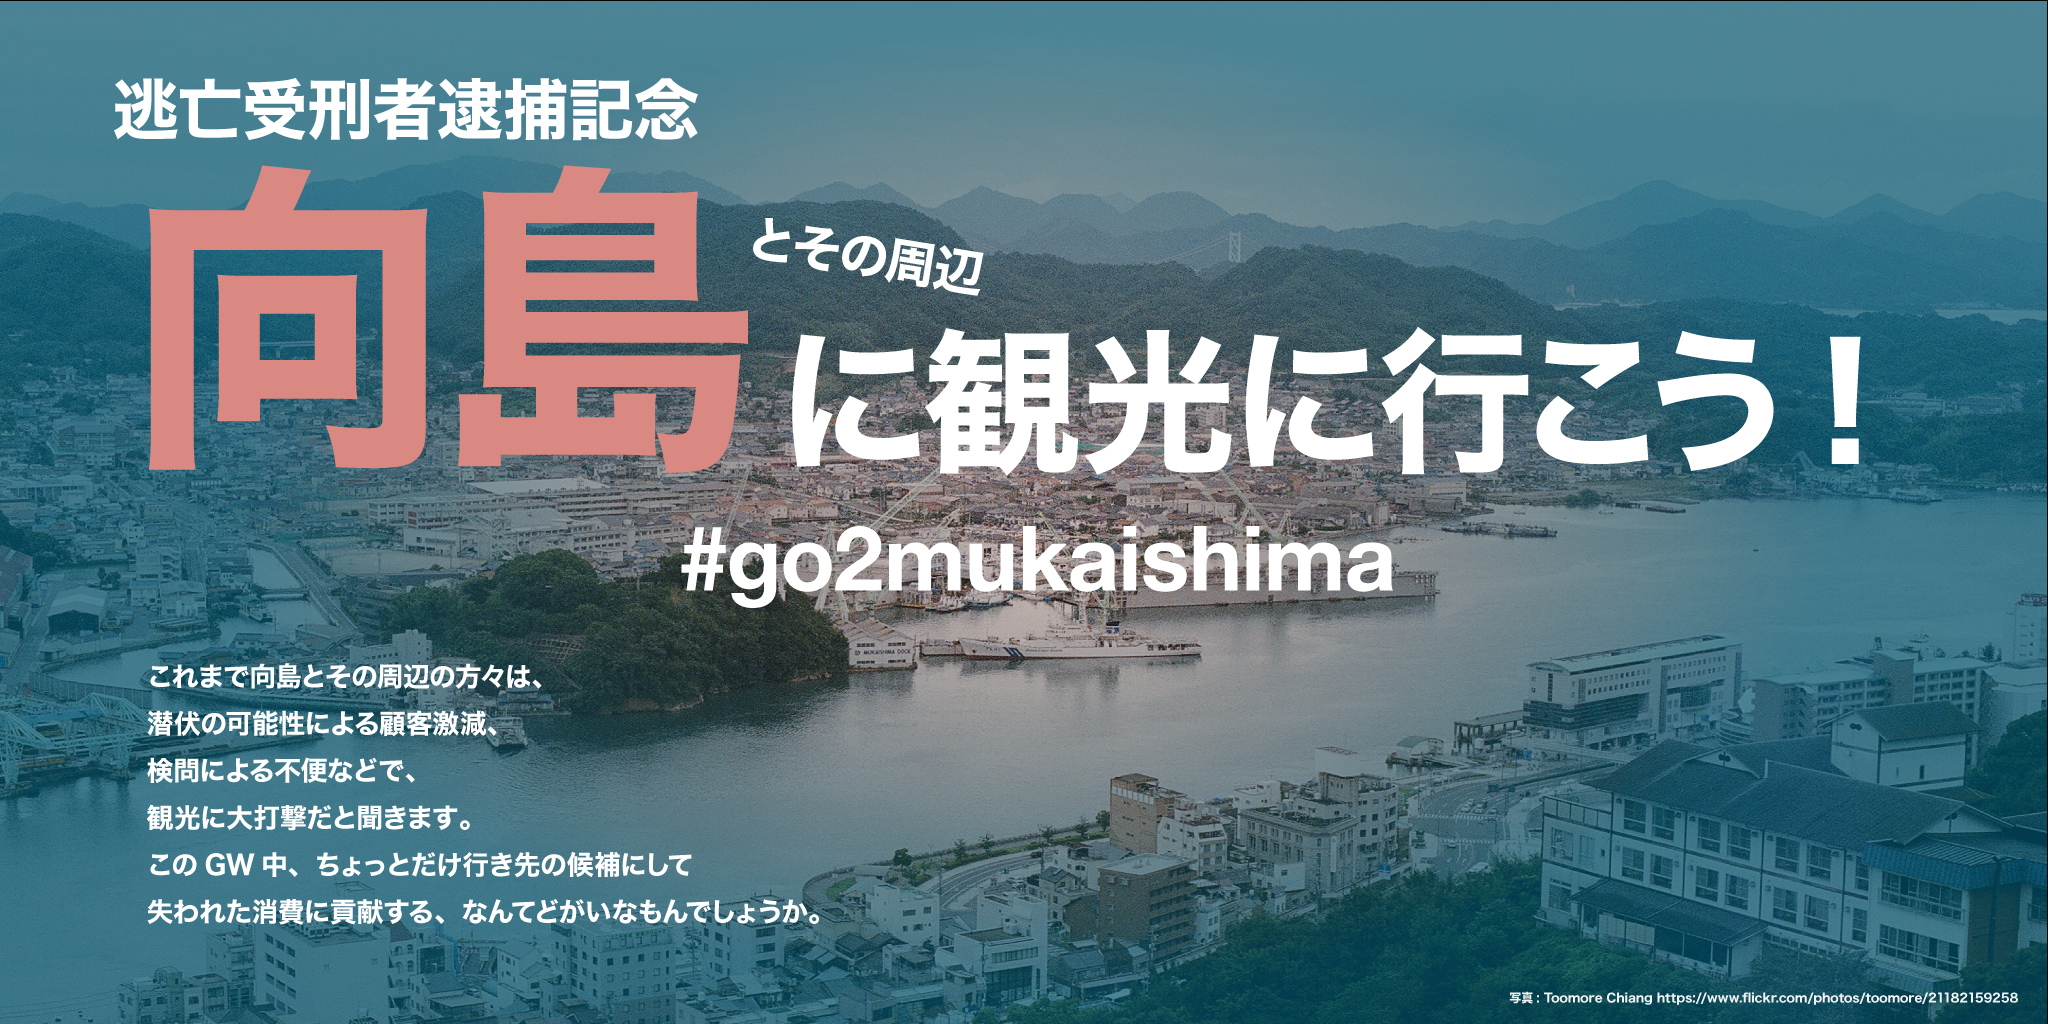
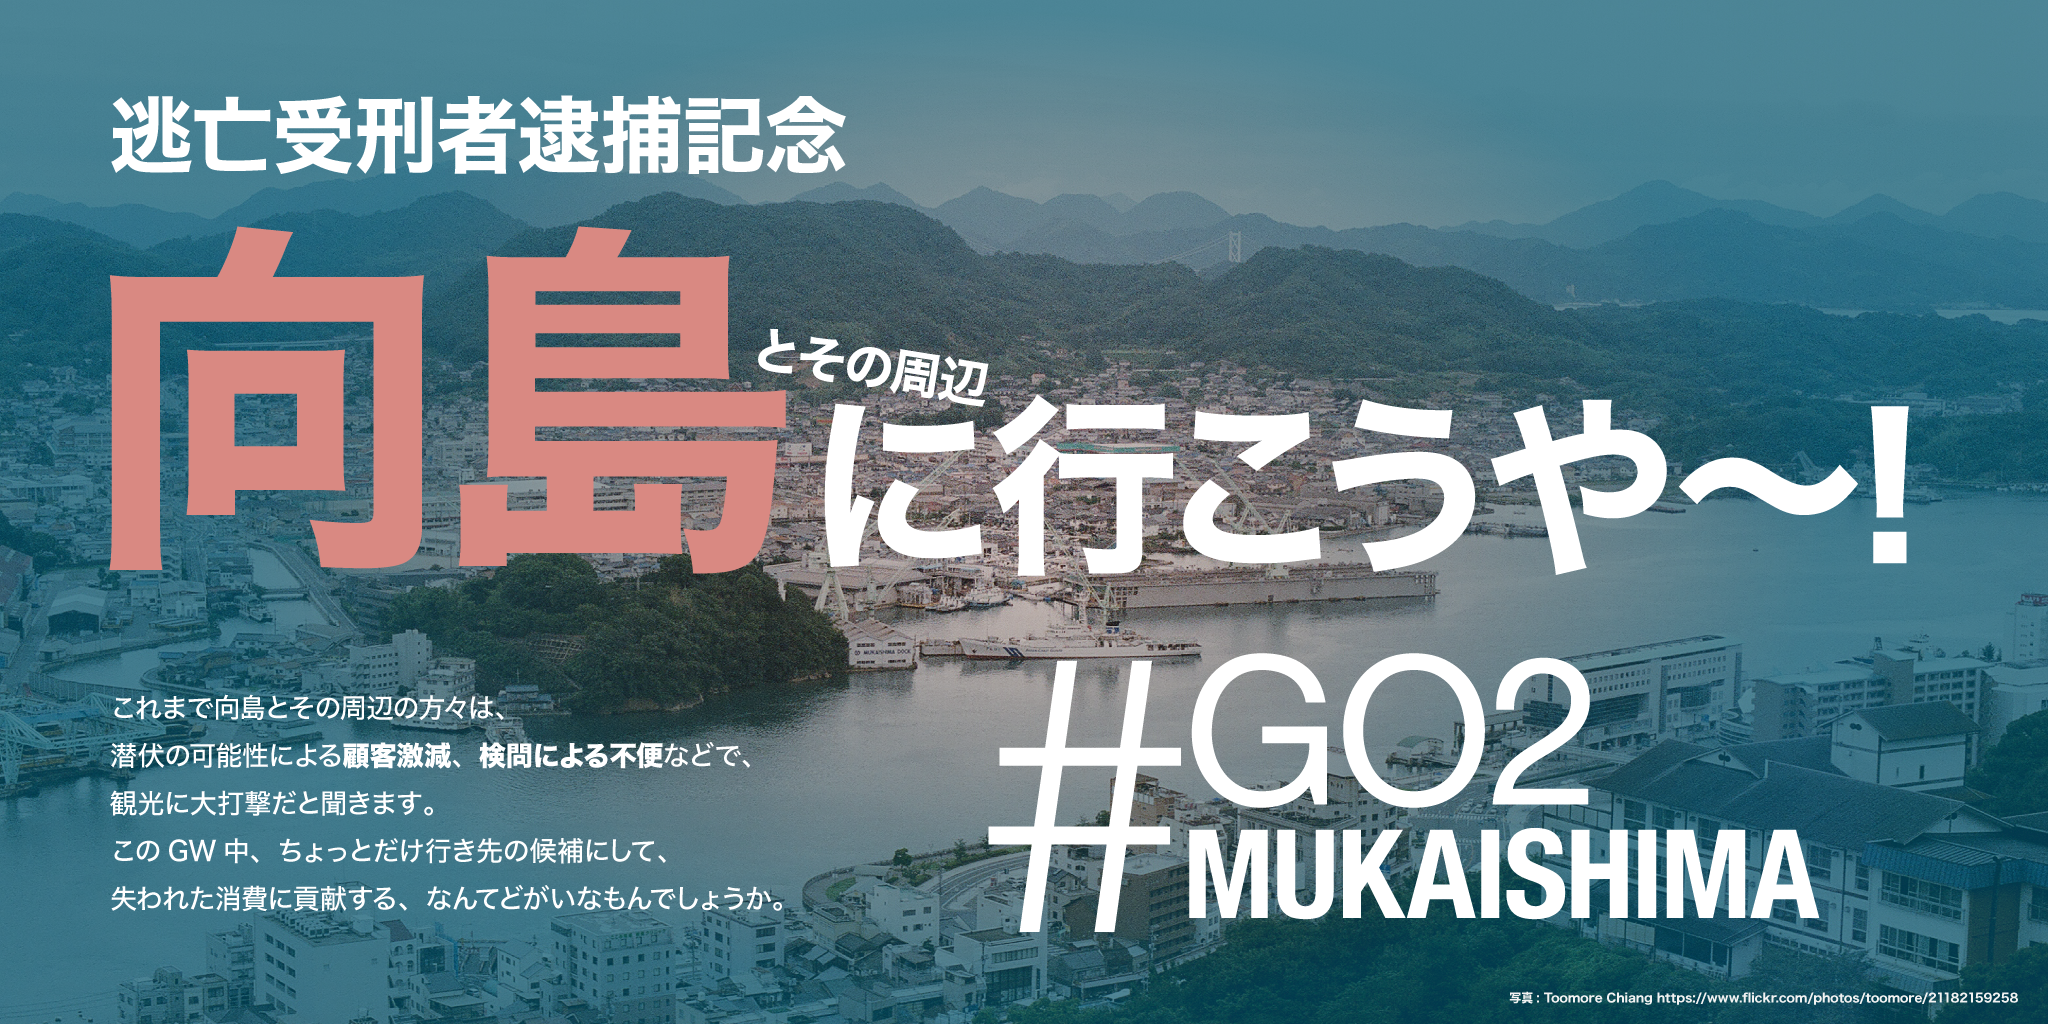
publish

Changed region(s): [[0.0312, 0.0625, 0.9375, 0.5938], [0.4688, 0.625, 0.9062, 0.9062], [0.0312, 0.625, 0.4062, 0.9062]]

diff --git a/docs/index.html b/docs/index.html
@@ -1,4 +1,4 @@
-<!DOCTYPE html><html><head><meta charset="utf-8" /><meta content="text/html; charset=UTF-8" http-equiv="Content-Type" /><meta content="width=device-width, initial-scale=1" name="viewport" /><link href="https://maxcdn.bootstrapcdn.com/bootstrap/4.0.0-beta.2/css/bootstrap.min.css" rel="stylesheet" /><link href="https://fonts.googleapis.com/css?family=Roboto:100,100i,300,300i,400,400i,500,500i,700,700i,900,900i" rel="stylesheet" /><link href="https://cdnjs.cloudflare.com/ajax/libs/font-awesome/4.7.0/css/font-awesome.css" rel="stylesheet" /><meta content="width=device-width, initial-scale=1" name="viewport" /><meta content="IE=edge,chrome=1" http-equiv="X-UA-Compatible" /><title>向島に行こうや</title><meta content="向島,尾道,広島" name="Keywords" /><meta content="向島(尾道市)を応援するサイトです。23日間脱走受刑者潜伏の可能性による消費の落ち込みや不便ががありました。" name="description" /><meta content="Nyoho" name="Author" /><meta content="https://nyoho.github.io/go2mukaishima//images/go2mukaishima.jpg" property="og:image" /><meta content="https://nyoho.github.io/go2mukaishima/" property="og:url" /><meta content="向島に行こうや" property="og:title" /><meta content="向島(尾道市)を応援するサイトです。23日間脱走受刑者潜伏の可能性による消費の落ち込みや不便ががありました。" property="og:description" /><meta content="website" property="og:type" /><link href="stylesheets/main.css" rel="stylesheet" type="text/css" /></head><body><header data-block-type="headers" data-id="4"><div class="container"><nav class="navbar navbar-expand-md no-gutters"><button aria-controls="navbarNav2" aria-expanded="false" aria-label="Toggle navigation" class="navbar-toggler" data-target="#navbarNav2" data-toggle="collapse" type="button"><span class="navbar-toggler-icon"></span></button><div class="col-4 col-md-2 text-right text-md-center order-lg-6"><a href="#"><img alt="image" height="30" src="images/logo.svg" /></a></div><div class="collapse navbar-collapse col-12 col-md-5" id="navbarNav2"><ul class="navbar-nav"><li class="nav-item"><a class="nav-link" href="#venues">Venues</a></li><li class="nav-item"><a class="nav-link" href="javascript:window.history.back();">知らんわあ</a></li></ul></div><ul class="navbar-nav justify-content-end col-sm-5 order-lg-12 d-none d-md-flex"><li class="nav-item"><a class="nav-link" href="http://twitter.com/NeXTSTEP2OSX"><i class="fa fa-twitter"></i></a></li><li class="nav-item"><a class="nav-link" href="https://github.com/Nyoho"><i class="fa fa-github"></i></a></li></ul></nav></div></header><section class="fdb-block" data-block-type="contents" data-id="1" style="background-image: url(images/background.jpg);"><div class="container"><div class="row"><div class="col-12"><div class="row justify-content-center pb-5"><div class="col-12 col-lg-8 text-center"><h1>#go2mukaishima 向島に行こうや〜</h1></div></div><img alt="image" class="img-fluid" src="images/go2mukaishima.jpg" /></div></div></div></section><section class="fdb-block" data-block-type="testimonials" data-id="6"><div class="container"><div class="row pb-xl-5 text-center justify-content-center"><div class="col-md-10 col-lg-7"><h1>失われた消費を、ちいと援助。</h1></div></div><div class="row mt-5 justify-content-center"><div class="col-md-8 col-lg-4 col-xl-3 m-auto text-center"><img alt="image" height="50" src="images/white.png" /><p class="text-h3 mt-3">2018年4月30日(月)、脱走受刑者が逮捕されました。<a href="https://www.chugoku-np.co.jp/news/article/article.php?comment_id=428822&amp;comment_sub_id=0&amp;category_id=24">脱走受刑者、広島市で逮捕 (中国新聞アルファ)</a><br /> これまで向島とその周辺の方々は、
+<!DOCTYPE html><html><head><meta charset="utf-8" /><meta content="text/html; charset=UTF-8" http-equiv="Content-Type" /><meta content="width=device-width, initial-scale=1" name="viewport" /><link href="https://maxcdn.bootstrapcdn.com/bootstrap/4.0.0-beta.2/css/bootstrap.min.css" rel="stylesheet" /><link href="https://fonts.googleapis.com/css?family=Roboto:100,100i,300,300i,400,400i,500,500i,700,700i,900,900i" rel="stylesheet" /><link href="https://cdnjs.cloudflare.com/ajax/libs/font-awesome/4.7.0/css/font-awesome.css" rel="stylesheet" /><meta content="width=device-width, initial-scale=1" name="viewport" /><meta content="IE=edge,chrome=1" http-equiv="X-UA-Compatible" /><title>向島に行こうや</title><meta content="向島,尾道,広島" name="Keywords" /><meta content="向島(尾道市)を応援するサイトです。23日間脱走受刑者潜伏の可能性による消費の落ち込みや不便ががありました。" name="description" /><meta content="Nyoho" name="Author" /><meta content="https://nyoho.github.io/go2mukaishima/images/go2mukaishima.jpg" property="og:image" /><meta content="https://nyoho.github.io/go2mukaishima" property="og:url" /><meta content="向島に行こうや" property="og:title" /><meta content="向島(尾道市)を応援するサイトです。23日間脱走受刑者潜伏の可能性による消費の落ち込みや不便ががありました。" property="og:description" /><meta content="website" property="og:type" /><link href="stylesheets/main.css" rel="stylesheet" type="text/css" /></head><body><header data-block-type="headers" data-id="4"><div class="container"><nav class="navbar navbar-expand-md no-gutters"><button aria-controls="navbarNav2" aria-expanded="false" aria-label="Toggle navigation" class="navbar-toggler" data-target="#navbarNav2" data-toggle="collapse" type="button"><span class="navbar-toggler-icon"></span></button><div class="col-4 col-md-2 text-right text-md-center order-lg-6"><a href="#"><img alt="image" height="30" src="images/logo.svg" /></a></div><div class="collapse navbar-collapse col-12 col-md-5" id="navbarNav2"><ul class="navbar-nav"><li class="nav-item"><a class="nav-link" href="#venues">Venues</a></li><li class="nav-item"><a class="nav-link" href="javascript:window.history.back();">知らんわあ</a></li></ul></div><ul class="navbar-nav justify-content-end col-sm-5 order-lg-12 d-none d-md-flex"><li class="nav-item"><a class="nav-link" href="http://twitter.com/NeXTSTEP2OSX"><i class="fa fa-twitter"></i></a></li><li class="nav-item"><a class="nav-link" href="https://github.com/Nyoho"><i class="fa fa-github"></i></a></li></ul></nav></div></header><section class="fdb-block" data-block-type="contents" data-id="1" style="background-image: url(images/background.jpg);"><div class="container"><div class="row"><div class="col-12"><div class="row justify-content-center pb-5"><div class="col-12 col-lg-8 text-center"><h1>#go2mukaishima 向島に行こうや〜</h1></div></div><img alt="image" class="img-fluid" src="images/go2mukaishima.jpg" /></div></div></div></section><section class="fdb-block" data-block-type="testimonials" data-id="6"><div class="container"><div class="row pb-xl-5 text-center justify-content-center"><div class="col-md-10 col-lg-7"><h1>失われた消費を、ちいと援助。</h1></div></div><div class="row mt-5 justify-content-center"><div class="col-md-8 col-lg-4 col-xl-3 m-auto text-center"><img alt="image" height="50" src="images/white.png" /><p class="text-h3 mt-3">2018年4月30日(月)、脱走受刑者が逮捕されました。<a href="https://www.chugoku-np.co.jp/news/article/article.php?comment_id=428822&amp;comment_sub_id=0&amp;category_id=24">脱走受刑者、広島市で逮捕 (中国新聞アルファ)</a><br /> これまで向島とその周辺の方々は、
 潜伏の可能性による顧客激減、検問による不便などで、
 観光に大打撃だと聞きます。
 このGW中、ちょっとだけ行き先の候補にして、失われた消費に貢献する、なんてどがいなもんでしょうか。</p><p class="text-h3 mt-4 mt-xl-5"><strong>わし</strong></p><p>Founder at the Hiroshima dialect dubbing series</p></div><div class="col-md-8 col-lg-4 col-xl-3 pt-5 pt-lg-0 m-auto text-center"><img alt="image" height="50" src="images/white.png" /><p class="text-h3 mt-3">“無理する必要はないんよ。やらんでもええし。もし、近くに行くことがあったら、ちいと向島でご飯食べようかとか、おむすび買おうかとか、そんなんでも十分じゃないんかね。”</p><p class="text-h3 mt-4 mt-xl-5"><strong>わし</strong></p><p>Founder at the Hiroshima dialect dubbing series</p></div><div class="col-md-8 col-lg-4 col-xl-3 pt-5 pt-lg-0 m-auto text-center"><img alt="image" height="50" src="images/white.png" /><p class="text-h3 mt-3">"A small river named Duden flows by their place and supplies it with the necessary regelialia."</p><p class="text-h3 mt-4 mt-xl-5"><strong>わし</strong></p><p>Founder at the Hiroshima dialect dubbing series</p></div></div></div></section><section class="fdb-block bg-dark" data-block-type="testimonials" data-id="5"><div class="container"><div class="row text-center justify-content-center"><div class="col-md-10 col-lg-8 col-xl-7"><h1 id="venues">どこに行こうかしらん</h1><p class="text-h3">いい観光情報・飲食店・宿・お土産・感想リンクをどんどん集めます。提案はこちら</p></div></div><div class="row mt-5 align-items-center justify-content-center"><div class="col-md-8 col-lg-4"><div class="fdb-box"><div class="row no-gutters align-items-center"><div class="col-3"><img alt="image" class="img-fluid" src="images/white.png" /></div><div class="col-8 ml-auto"><p><strong>Twitterより</strong></p></div></div><div class="row mt-4"><div class="col-12"><p class="text-h3"><blockquote class="twitter-tweet" data-lang="ja"><p lang="ja" dir="ltr">向島の温泉宿に泊まったことがある。　逃亡犯が泳いで渡ったらしい海峡、客室から、対岸への渡し船乗り場が見えて風情があった。<br>翌朝5時台くらいから渡し船が稼働しており、寝坊が出来なかったのも、良い思い出・・・<a href="https://t.co/xCnZFp61BC">https://t.co/xCnZFp61BC</a></p>&mdash; 蒼々舎→下諏訪最小工務店 (@SososhaSuwa) <a href="https://twitter.com/SososhaSuwa/status/991267779675213825?ref_src=twsrc%5Etfw">2018年5月1日</a></blockquote> <script async src="https://platform.twitter.com/widgets.js" charset="utf-8"></script> </p></div></div></div></div><div class="col-md-8 col-lg-4 mt-4 mt-lg-0"><div class="fdb-box"><div class="row no-gutters align-items-center"><div class="col-3"><img alt="image" class="img-fluid" src="images/white.png" /></div><div class="col-8 ml-auto"><p><strong>岩子（いわし）島　厳島神社</strong></p></div></div><div class="row mt-4"><div class="col-12"><p class="text-h3"><a href="https://www.ononavi.jp/sightseeing/temple/detail.html?detail_id=338">岩子（いわし）島　厳島神社</a></p></div></div></div></div><div class="col-md-8 col-lg-4 mt-4 mt-lg-0"><div class="fdb-box"><div class="row no-gutters align-items-center"><div class="col-3"><img alt="image" class="img-fluid" src="images/white.png" /></div><div class="col-8 ml-auto"><p><strong>Twitterより</strong></p></div></div><div class="row mt-4"><div class="col-12"><p class="text-h3"><blockquote class="twitter-tweet" data-lang="ja"><p lang="ja" dir="ltr">尾道市向島の新名物、明日(5月1日）から販売開始。<br><br>脱獄饅頭<br><br>脱獄アイス<br><br>脱獄ラーメン<br><br>平尾容疑者の影響で観光客じり貧だったGW前半の売り上げ減をGW後半で一気に挽回するつもりらしい。<a href="https://twitter.com/hashtag/%E5%B9%B3%E5%B0%BE%E5%AE%B9%E7%96%91%E8%80%85?src=hash&amp;ref_src=twsrc%5Etfw">#平尾容疑者</a></p>&mdash; グッちゃん (@goodmax123) <a href="https://twitter.com/goodmax123/status/990890355842166784?ref_src=twsrc%5Etfw">2018年4月30日</a></blockquote> <script async src="https://platform.twitter.com/widgets.js" charset="utf-8"></script> </p></div></div></div></div><div class="col-md-8 col-lg-4 mt-4 mt-lg-0"><div class="fdb-box"><div class="row no-gutters align-items-center"><div class="col-3"><img alt="image" class="img-fluid" src="images/white.png" /></div><div class="col-8 ml-auto"><p><strong>Twitterより</strong></p></div></div><div class="row mt-4"><div class="col-12"><p class="text-h3"><blockquote class="twitter-tweet" data-cards="hidden" data-lang="ja"><p lang="ja" dir="ltr">おはようございます。<br>連休の前半が終わりました。<br><br>そんな今朝の向島店の店長の顔です（笑）あの全国区になった尾道市向島です。<br><br>やっと日常が戻ったと、ホッとしながらも5月から心機一転頑張るそうです♪<br><br>お近くにお越しの方は是非、向島店へ！4月の売上が厳しかったので挽回させてやって下さい！ <a href="https://t.co/oqFRMw2uJa">pic.twitter.com/oqFRMw2uJa</a></p>&mdash; フレスタ公式アカウント (@FRESTA_81) <a href="https://twitter.com/FRESTA_81/status/991116240759308288?ref_src=twsrc%5Etfw">2018年5月1日</a></blockquote> <script async src="https://platform.twitter.com/widgets.js" charset="utf-8"></script> </p></div></div></div></div><div class="col-md-8 col-lg-4 mt-4 mt-lg-0"><div class="fdb-box"><div class="row no-gutters align-items-center"><div class="col-3"><img alt="image" class="img-fluid" src="images/white.png" /></div><div class="col-8 ml-auto"><p><strong>Twitterより</strong></p></div></div><div class="row mt-4"><div class="col-12"><p class="text-h3"><blockquote class="twitter-tweet" data-conversation="none" data-lang="ja"><p lang="ja" dir="ltr">それと脱走騒ぎでGWの客足に影響が出て売り上げが下がった<br>尾道と向島の店舗の損失と比べてほしいです</p>&mdash; bosskan (@bosskan) <a href="https://twitter.com/bosskan/status/991271817867419648?ref_src=twsrc%5Etfw">2018年5月1日</a></blockquote> <script async src="https://platform.twitter.com/widgets.js" charset="utf-8"></script> </p></div></div></div></div><div class="col-md-8 col-lg-4 mt-4 mt-lg-0"><div class="fdb-box"><div class="row no-gutters align-items-center"><div class="col-3"><img alt="image" class="img-fluid" src="images/white.png" /></div><div class="col-8 ml-auto"><p><strong>Twitterより</strong></p></div></div><div class="row mt-4"><div class="col-12"><p class="text-h3"><blockquote class="twitter-tweet" data-conversation="none" data-lang="ja"><p lang="ja" dir="ltr">戦艦大和のロケセットありましたね。<br>向島は橋だけで本土に繋がっているので、他に抜け道がなく渋滞、島内のお店の売り上げも従来の半分くらいに落ち込んでいたそうです。<br>これで、落ち着くでしょうね。</p>&mdash; aquarium (@aquarium879) <a href="https://twitter.com/aquarium879/status/990855825546596357?ref_src=twsrc%5Etfw">2018年4月30日</a></blockquote> <script async src="https://platform.twitter.com/widgets.js" charset="utf-8"></script> </p></div></div></div></div></div></div></section><footer class="fdb-block footer-large bg-dark fp-active" data-block-type="footers" data-id="3"><div class="container"><div class="row align-items-top text-center text-md-left"><div class="col-12 col-sm-6 col-md-4"><h3><strong>向島</strong></h3><p>広島県尾道市にある島</p></div><div class="col-12 col-sm-6 col-md-4 mt-4 mt-sm-0"><h3><strong>Credits</strong></h3><p>写真: <a href="https://www.flickr.com/photos/toomore/21182159258">Toomore Chiang</a></p><p></p></div><div class="col-12 col-md-4 mt-5 mt-md-0 text-md-left"><h3><strong>About me</strong></h3><p><a href="https://nyoho.jp">Nyoho</a>。広島弁をこよなく愛する広島県民。最近は眼鏡市場のCMでエルドレッド選手の広島弁吹き替えを担当。</p></div></div><div class="row mt-5"><div class="col text-center">Copyright &copy; 2018 Nyoho. All rights reserved.</div></div></div></footer><script src="https://code.jquery.com/jquery-3.2.1.slim.min.js"></script><script src="https://cdnjs.cloudflare.com/ajax/libs/popper.js/1.11.0/umd/popper.min.js"></script><script src="https://maxcdn.bootstrapcdn.com/bootstrap/4.0.0-beta.2/js/bootstrap.min.js"></script><script>if(!window.location.hostname.match(/^127.0.0.1$/)){
